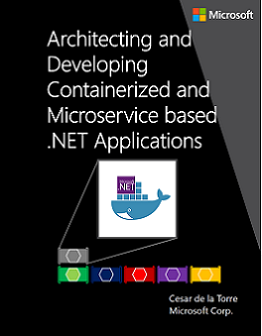
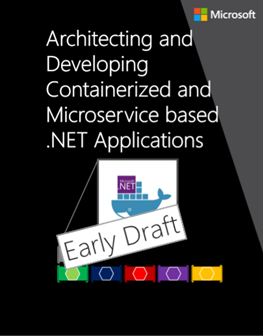
Updated README for home page at GitHub

diff --git a/README.md b/README.md
@@ -2,23 +2,27 @@
 Sample .NET Core reference application, powered by Microsoft, based on a simplified microservices architecture and Docker containers. <p>
 
 > ### DISCLAIMER
-> IMPORTANT: The current state of this sample application is ALPHA, therefore, many areas could change significantly while refactoring and getting improvements. Feedback and pull requests from the community will be appreciated. 
+> **IMPORTANT:** The current state of this sample application is **ALPHA**, consider it version a 0.1 foundational version, therefore, many areas could be improved and change significantly while refactoring current code and implementing new features. **Feedback with improvements and pull requests from the community will be highly appreciated and accepted.** 
 >
-> This reference application proposes a simplified microservice oriented architecture implementation (as mentioned, currently in ALPHA state) to introduce technologies like .NET Core with Docker containers through a comprehensive but simplified application. However, this reference application it is not trying to solve all the problems in a large and mission-critical distributed system, it is just a bootstrap for developers to easily get started in the world of Docker containers and microservices with .NET Core. 
+> This reference application proposes a simplified microservice oriented architecture implementation to introduce technologies like .NET Core with Docker containers through a comprehensive application. However, this reference application it is not trying to solve all the problems in a large and mission-critical distributed system, it is just a bootstrap for developers to easily get started in the world of Docker containers and microservices with .NET Core. 
 > <p>For example, the next step (still not covered here) after understanding Docker containers and microservices is to select a microservice cluster/orchestrator like Docker Swarm, Kubernetes or DC/OS (in Azure Container Service) or Azure Service Fabric which in most of the cases will require additional partial changes to your application's configuration (although the present architecture should work on most orchestrators with small changes). In the future we might fork this project and make multiple versions targeting specific microservice cluster/orchestrators. <p>
-> Read the planned <a href='https://github.com/dotnet/eShopOnContainers/wiki/01.-Roadmap-and-Milestones-for-future-releases'>Roadmap and Milestones for future releases of eShopOnContainers</a> within the Wiki for further info about possible new implementations and provide feedback at the ISSUES level if you'd like to see any specific scenario implemented.
+> Read the planned <a href='https://github.com/dotnet/eShopOnContainers/wiki/01.-Roadmap-and-Milestones-for-future-releases'>Roadmap and Milestones for future releases of eShopOnContainers</a> within the Wiki for further info about possible new implementations and provide feedback at the  <a href='https://github.com/dotnet/eShopOnContainers/issues'>ISSUES section</a> if you'd like to see any specific scenario implemented or improved. Also, feel free to discuss on any current issue.
 
+**Architecture overview**: This reference application is cross-platform either at the server and client side, thanks to .NET Core services capable of running on Linux or Windows containers depending on your Docker host, and to Xamarin for mobile apps running on Android, iOS or Windows/UWP plus any browser for the client web apps. 
+The architecture proposes a simplified microservice oriented architecture implementation with multiple autonomous microservices (each one owning its own data/db) and implementing different approaches within each microservice (simple CRUD vs. DDD/CQRS patterns) using Http as the current communication protocol. 
 <p>
-This reference application is cross-platform either in the server and client side, thanks to .NET Core services capable of running on Linux or Windows containers depending on your Docker host, and to Xamarin for mobile apps running on Android, iOS or Windows/UWP plus any browser for the client web apps. 
+The plan is to add asynchronous communication for data updates propagation across multiple services based on integration events and an event bus plus other features defined at the <a href='https://github.com/dotnet/eShopOnContainers/wiki/01.-Roadmap-and-Milestones-for-future-releases'>roadmap</a>. 
 <p>
 <img src="img/eshop_logo.png">
 <img src="img/eShopOnContainers_Architecture_Diagram.png">
 <p>
+<p>
+Additional miroservice styles with other frameworks and No-SQL databases will be added, eventually. This is a great opportunity for pull requests from the community, like a new microservice using Nancy, or even other languages like Node, Go, Python or data containers with MongoDB with Azure DocDB compatibility, Postgress, RavenDB, Event Store, MySql, etc. You name it! :)
 
 > ### Important Note on Database Servers/Containers
-> In this solution's current configuration for a development environment, the SQL databases are automatically deployed with sample data into a single SQL Server for Linux container (a single shared Docker container for SQL databases) so the whole solution can be up and running without any dependency in the cloud or server. Each database could also be deployed as a single Docker container, but then you'd need more then 8GB or memory RAM in your development machine in order to be able to run 3 SQL Server Docker containers in your Docker Linux host in "Docker for Windows" or "Docker for Mac" development environments.
+> In this solution's current configuration for a development environment, the SQL databases are automatically deployed with sample data into a single SQL Server for Linux container (a single shared Docker container for SQL databases) so the whole solution can be up and running without any dependency to any cloud or specific server. Each database could also be deployed as a single Docker container, but then you'd need more then 8GB or memory RAM assigned to Docker in your development machine in order to be able to run 3 SQL Server Docker containers in your Docker Linux host in "Docker for Windows" or "Docker for Mac" development environments.
 > <p> A similar case is defined in regards Redis cache running as a container for the development environment.
-> <p> However, in a real production environment it is recommended to have persistance (SQL Server and Redis) in HA services like Azure SQL Database, Redis as a service or any other clustering system. If you want to change to a production configuration, you'll just need to change the connection strings once you have set up the servers in HA cloud or on-premises.
+> <p> However, in a real production environment it is recommended to have your databases (SQL Server and Redis, in this case) in HA (High Available) services like Azure SQL Database, Redis as a service or any other clustering system. If you want to change to a production configuration, you'll just need to change the connection strings once you have set up the servers in a HA cloud or on-premises.
 
 ## Related documentation and guidance
 While developing this reference application, we are creating a reference Guide/eBook named <b>"Architecting and Developing Containerized and Microservice based .NET Applications"</b> which explains in detail how to develop this kind of architectural style (microservices, Docker containers, Domain-Driven Design for certain microservices) plus other simpler architectural styles, like monolithic apps that can also live as Docker containers.
@@ -34,7 +38,7 @@ You can download both eBooks from here:
 | <a href='docs/architecting-and-developing-containerized-and-microservice-based-net-applications-ebook-early-draft.pdf'>**Download (Early DRAFT, still work in progress)** - send feedback to cesardl@microsoft.com</a> | <a href='https://aka.ms/dockerlifecycleebook'>**Download** - First Edition from late 2016</a>   |
 
 
-<p>However, we encourage to review the "*Architecting/Developing*" eBook because the architectural styles and architectural patterns and technologies explained in the guidance are using this reference application when explaining many sample implementations, so you'll understand much better the context, design and decisions taken.
+<p>However, we encourage to review the *Architecting/Developing eBook* because the architectural styles and architectural patterns and technologies explained in the guidance are using this reference application when explaining many pattern implementations, so you'll understand much better the context, design and decisions taken in th current architecture and internal design.
 
 
 ## Overview of the application code
@@ -42,30 +46,25 @@ In this repo you can find a sample reference application that will help you to u
 
 The example business domain or scenario is based on an eShop or eCommerce which is implemented as a multi-container application. Each container is a microservice deployment (like the basket-microservice, catalog-microservice, ordering-microservice and the  identity-microservice) which are developed using ASP.NET Core running on .NET Core so they can run either on Linux Containers and Windows Containers.
 The screenshot below shows the VS Solution structure for those microservices/containers and client apps.
-- Open <b>eShopOnContainers.sln</b> for a solution containing all the projects (All client apps and services).
-- Open <b>eShopOnContainers-ServicesAndWebApps.sln</b> for a solution containing just the server-side projects related to the microservices and web applications.
-- Open <b>eShopOnContainers-MobileApps.sln</b> for a solution containing just the client mobile app projects (Xamarin mobile apps only).
 
+- (*Recommended when getting started*) Open <b>eShopOnContainers-ServicesAndWebApps.sln</b> for a solution containing just the server-side projects related to the microservices and web applications.
+- Open <b>eShopOnContainers-MobileApps.sln</b> for a solution containing just the client mobile app projects (Xamarin mobile apps only). It works independently based on mocks, too.
+- Open <b>eShopOnContainers.sln</b> for a solution containing all the projects (All client apps and services).
 
 <img src="img/vs-solution-structure.png">
 
 Finally, those microservices are consumed by multiple client web and mobile apps, as described below.
-
+<br>
 <b>*MVC Application (ASP.NET Core)*</b>: Its an MVC 6 application where you can find interesting scenarios on how to consume HTTP-based microservices from C# running in the server side, as it is a typical ASP.NET Core MVC application. Since it is a server-side application, access to other containers/microservices is done within the internal Docker Host network with its internal name resolution.
 <img src="img/eshop-webmvc-app-screenshot.png">
-
+<br>
 <b>*SPA (Single Page Application)*</b>: Providing similar "eShop business functionality" but developed with Angular 2, Typescript and slightly using ASP.NET Core MVC 6. This is another approach for client web applications to be used when you want to have a more modern client behavior which is not behaving with the typical browser round-trip on every action but behaving like a Single-Page-Application which is more similar to a desktop app usage experience. The consumption of the HTTP-based microservices is done from TypeScript/JavaScript in the client browser, so the client calls to the microservices come from out of the Docker Host internal network (Like from your network or even from the Internet). 
 <img src="img/eshop-webspa-app-screenshot.png">
-
+<br>
 <b>*Xamarin Mobile App (For iOS, Android and Windows/UWP)*</b>: It is a client mobile app supporting the most common mobilee OS platforms (iOS, Android and Windows/UWP). In this case, the consumption of the microservices is done from C# but running on the client devices, so out of the Docker Host internal network (Like from your network or even the Internet).
 
 <img src="img/xamarin-mobile-App.png">
 
-> ### Note on tested Docker Containers/Images
-> The development and testing of this project was (as of January 2017) done <b>only on Docker Linux containers</b> running in development machines with "Docker for Windows" and the default Hyper-V Linux VM (MobiLinuxVM) installed by "Docker for Windows". 
-The <b>Windows Containers scenario has not been implemented/tested yet</b>, but the application should be able to run on Windows Containers based on different Docker base images, as well, as the .NET Core services have also been tested running on plain Windows (with no Docker).
-The app was also partially tested on "Docker for Mac" using a development MacOS machine with .NET Core and VS Code installed. However, that is still a scenario using Linux containers running on the VM setup in the Mac by the "Docker for Windows" setup.
- 
 ## Setting up your development environment for eShopOnContainers
 ### Visual Studio 2017 and Windows based
 This is the more straightforward way to get started:
@@ -76,11 +75,13 @@ For those who prefer the CLI on Windows, using dotnet CLI, docker CLI and VS Cod
 https://github.com/dotnet/eShopOnContainers/wiki/03.-Setting-the-eShopOnContainers-solution-up-in-a-Windows-CLI-environment-(dotnet-CLI,-Docker-CLI-and-VS-Code)
 
 ### CLI and Mac based
-For those who prefer the CLI on a Mac, using dotnet CLI, docker CLI and VS Code for Mac: 
+For those who prefer the CLI on a Mac, using dotnet CLI, docker CLI and VS Code for Mac 
+(Instructions still TBD, but similar to Windows CLI):
 https://github.com/dotnet/eShopOnContainers/wiki/04.-Setting-eShopOnContainer-solution-up-in-a-Mac,-VS-Code-and-CLI-environment--(dotnet-CLI,-Docker-CLI-and-VS-Code)
 
-> ### Note on Windows Containers
-> As mentioned, the development and testing of this project (January 2017 version) was done on Docker Linux containers running in development machines with "Docker for Windows" and the default Hyper-V Linux VM (MobiLinuxVM) installed by "Docker for Windows". 
-In order to run the application on Windows Containers you'd need to change the base images used by each container:
-> - Official .NET Core base-image for Windows Containers, at Docker Hub: https://hub.docker.com/r/microsoft/dotnet/ (Using the Windows Nanoserver tag)
-> - Official base-image for SQL Server on Windows Containers, at Docker Hub: https://hub.docker.com/r/microsoft/mssql-server-windows
+> ### Note on tested Docker Containers/Images
+> Most of the development and testing of this project was (as of early March 2017) done <b> on Docker Linux containers</b> running in development machines with "Docker for Windows" and the default Hyper-V Linux VM (MobiLinuxVM) installed by "Docker for Windows". 
+The <b>Windows Containers scenario is currently being implemented/tested yet</b>. The application should be able to run on Windows Nano Containers based on different Docker base images, as well, as the .NET Core services have also been tested running on plain Windows (with no Docker).
+The app was also partially tested on "Docker for Mac" using a development MacOS machine with .NET Core and VS Code installed, which is still a scenario using Linux containers running on the VM setup in the Mac by the "Docker for Windows" setup. But further testing and feedback on Mac environments and Windows Containers, from the community, will be appreciated.
+
+
